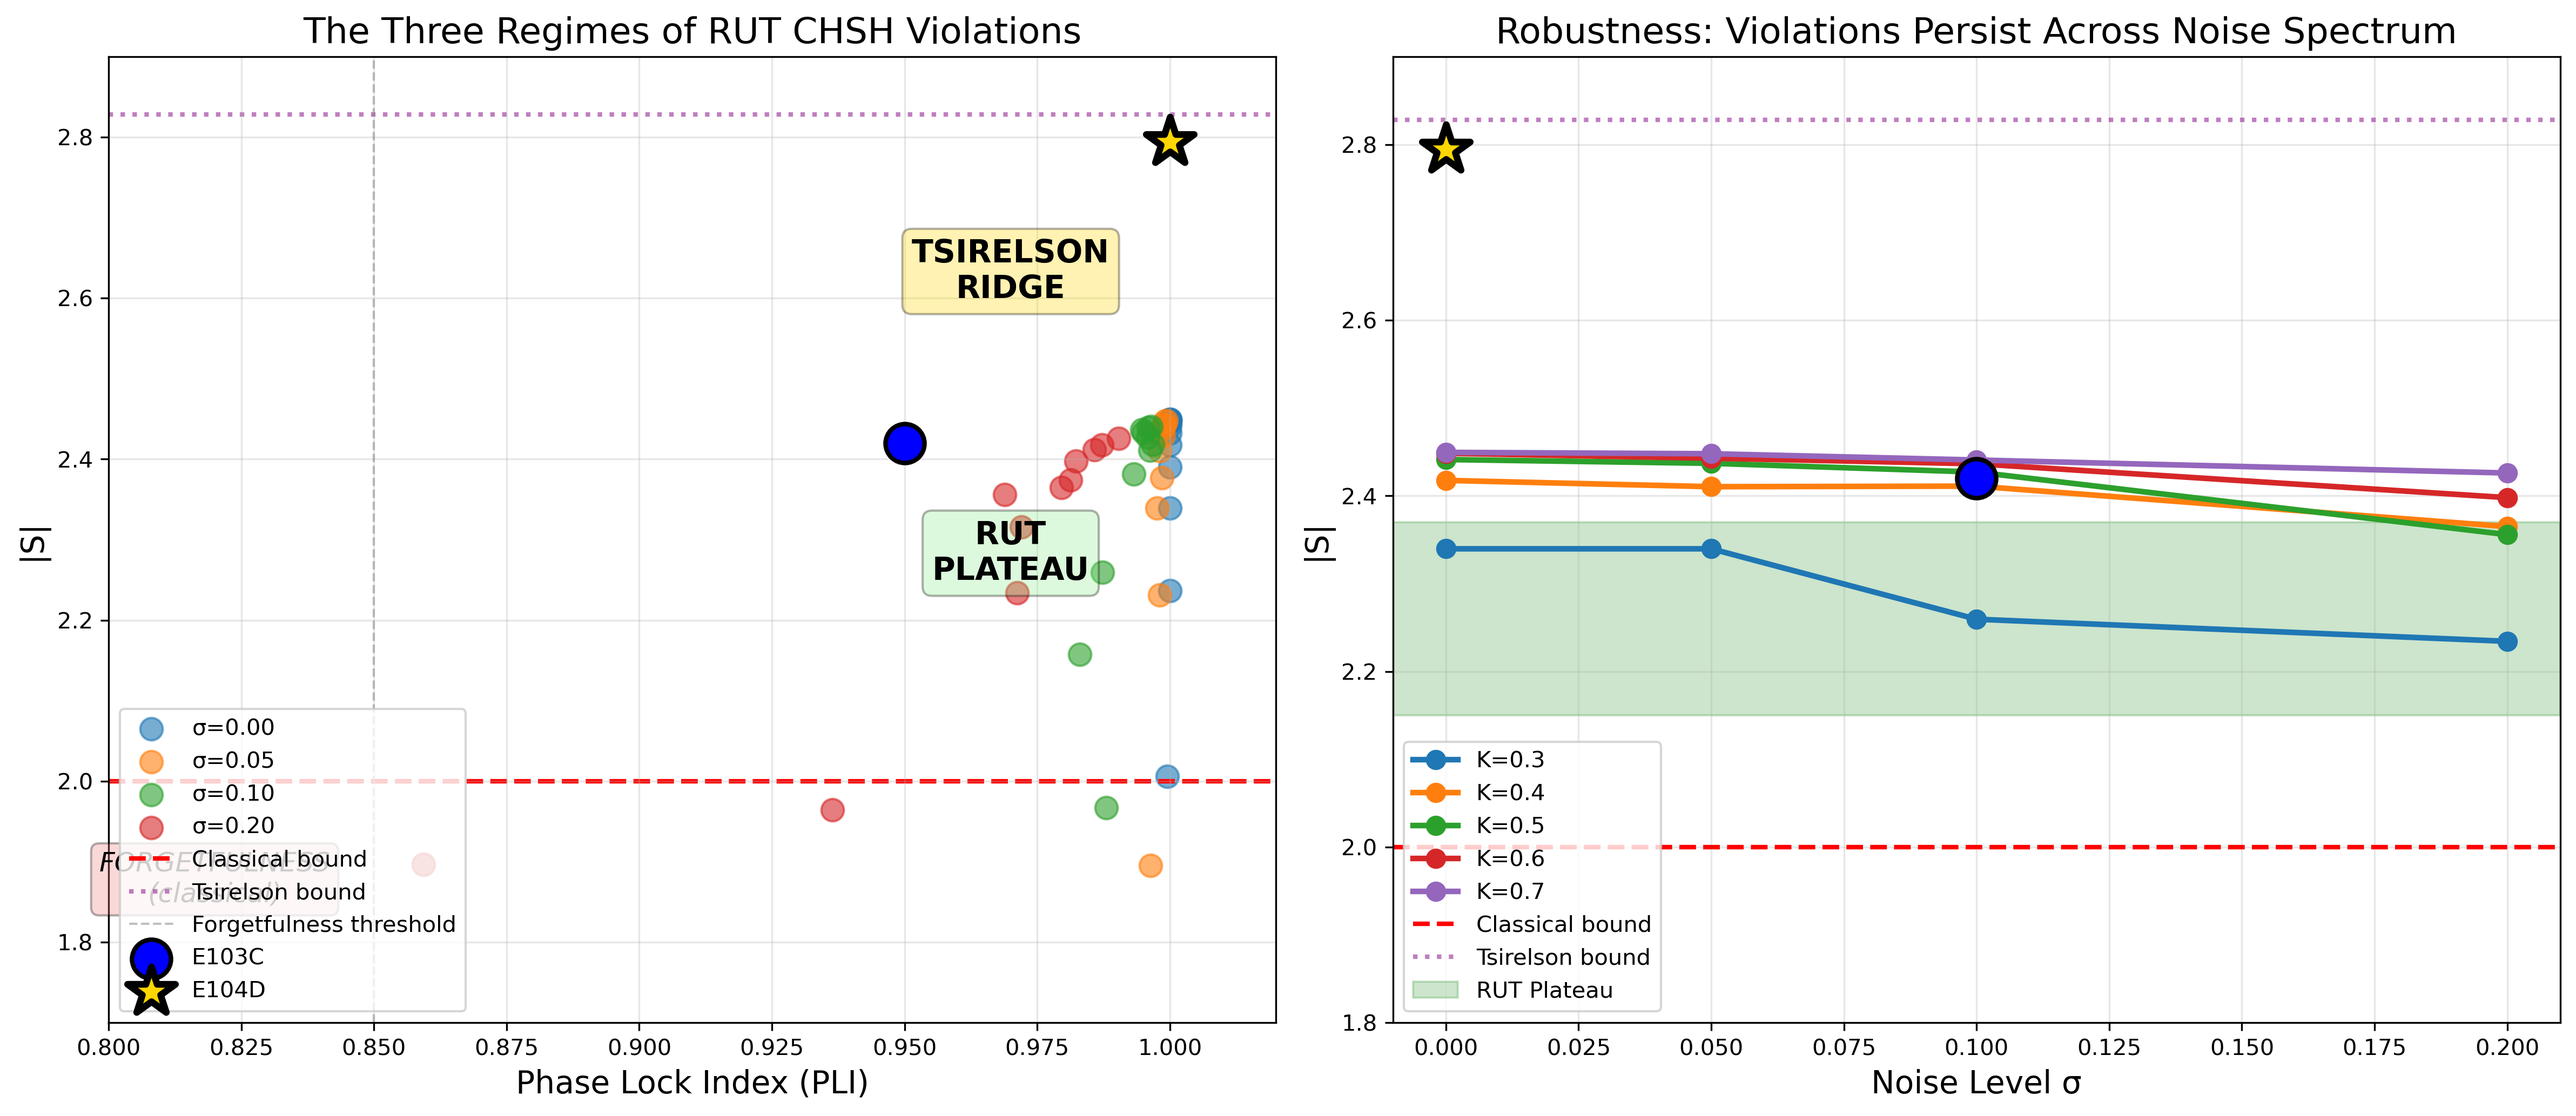
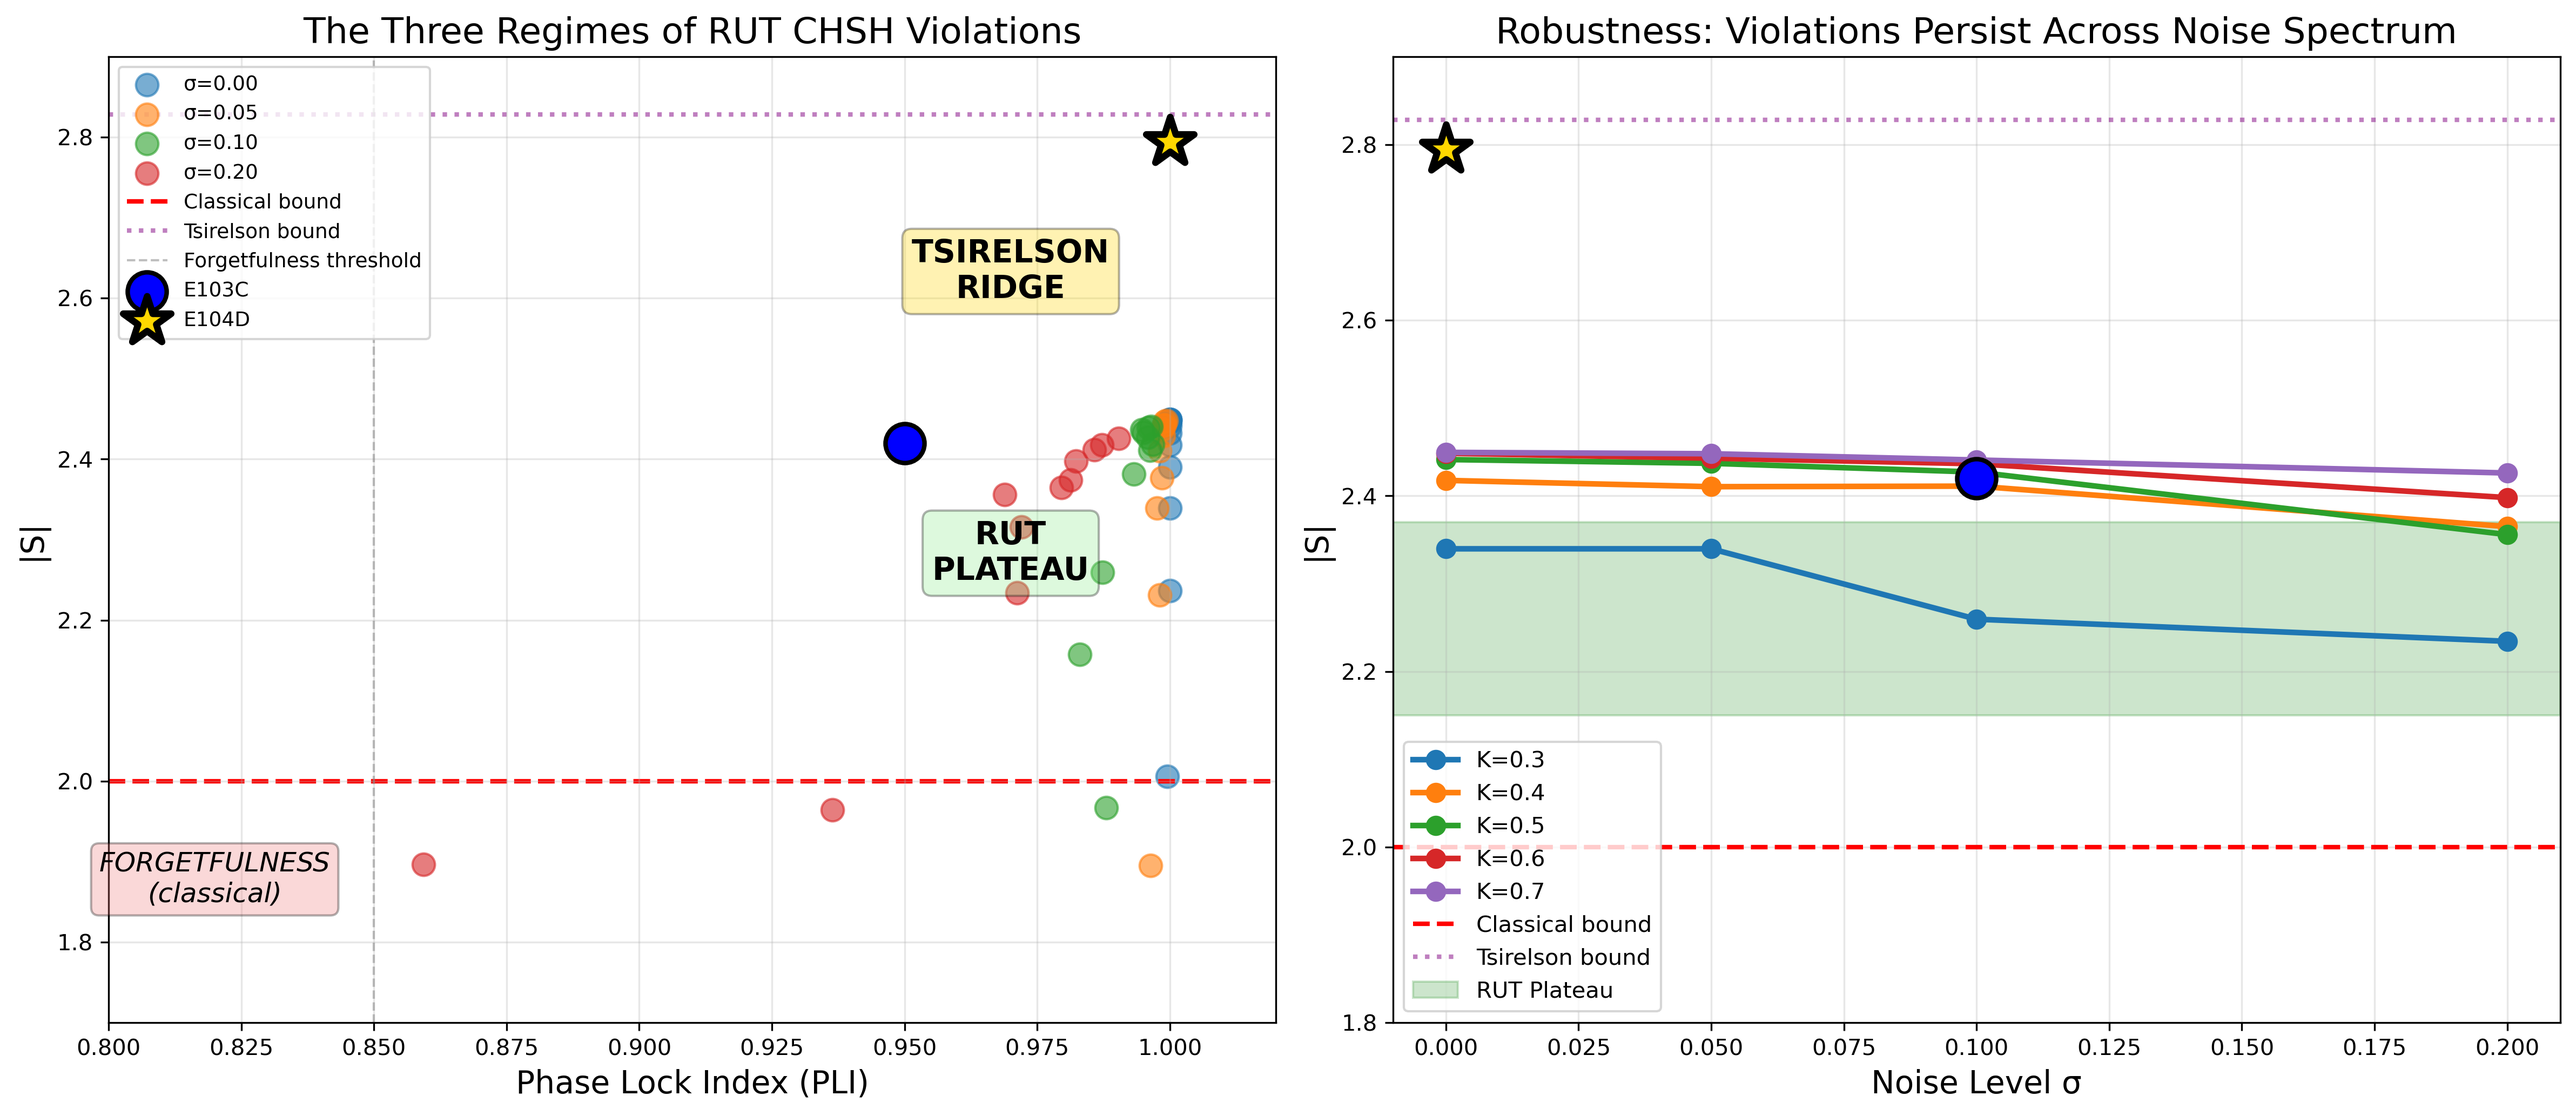
Fix legend overlap in three-regime diagram
Moved legend from 'lower left' to 'upper left' to prevent covering
the "Forgetfulness threshold" label. Also reduced legend font size
to 9pt for cleaner appearance.

🤖 Generated with [Claude Code](https://claude.com/claude-code)

Changed region(s): [[0.0312, 0.6502, 0.1875, 0.9289], [0.0312, 0.0619, 0.1562, 0.3096]]

diff --git a/analysis/scripts/plot_3d_landscape.py b/analysis/scripts/plot_3d_landscape.py
@@ -207,7 +207,7 @@ ax_left.set_ylabel('|S|', fontsize=14)
 ax_left.set_title('The Three Regimes of RUT CHSH Violations', fontsize=16)
 ax_left.set_xlim([0.8, 1.02])
 ax_left.set_ylim([1.7, 2.9])
-ax_left.legend(loc='lower left', fontsize=10)
+ax_left.legend(loc='upper left', fontsize=9)
 ax_left.grid(True, alpha=0.3)
 
 # Right: |S| vs σ (noise robustness)
